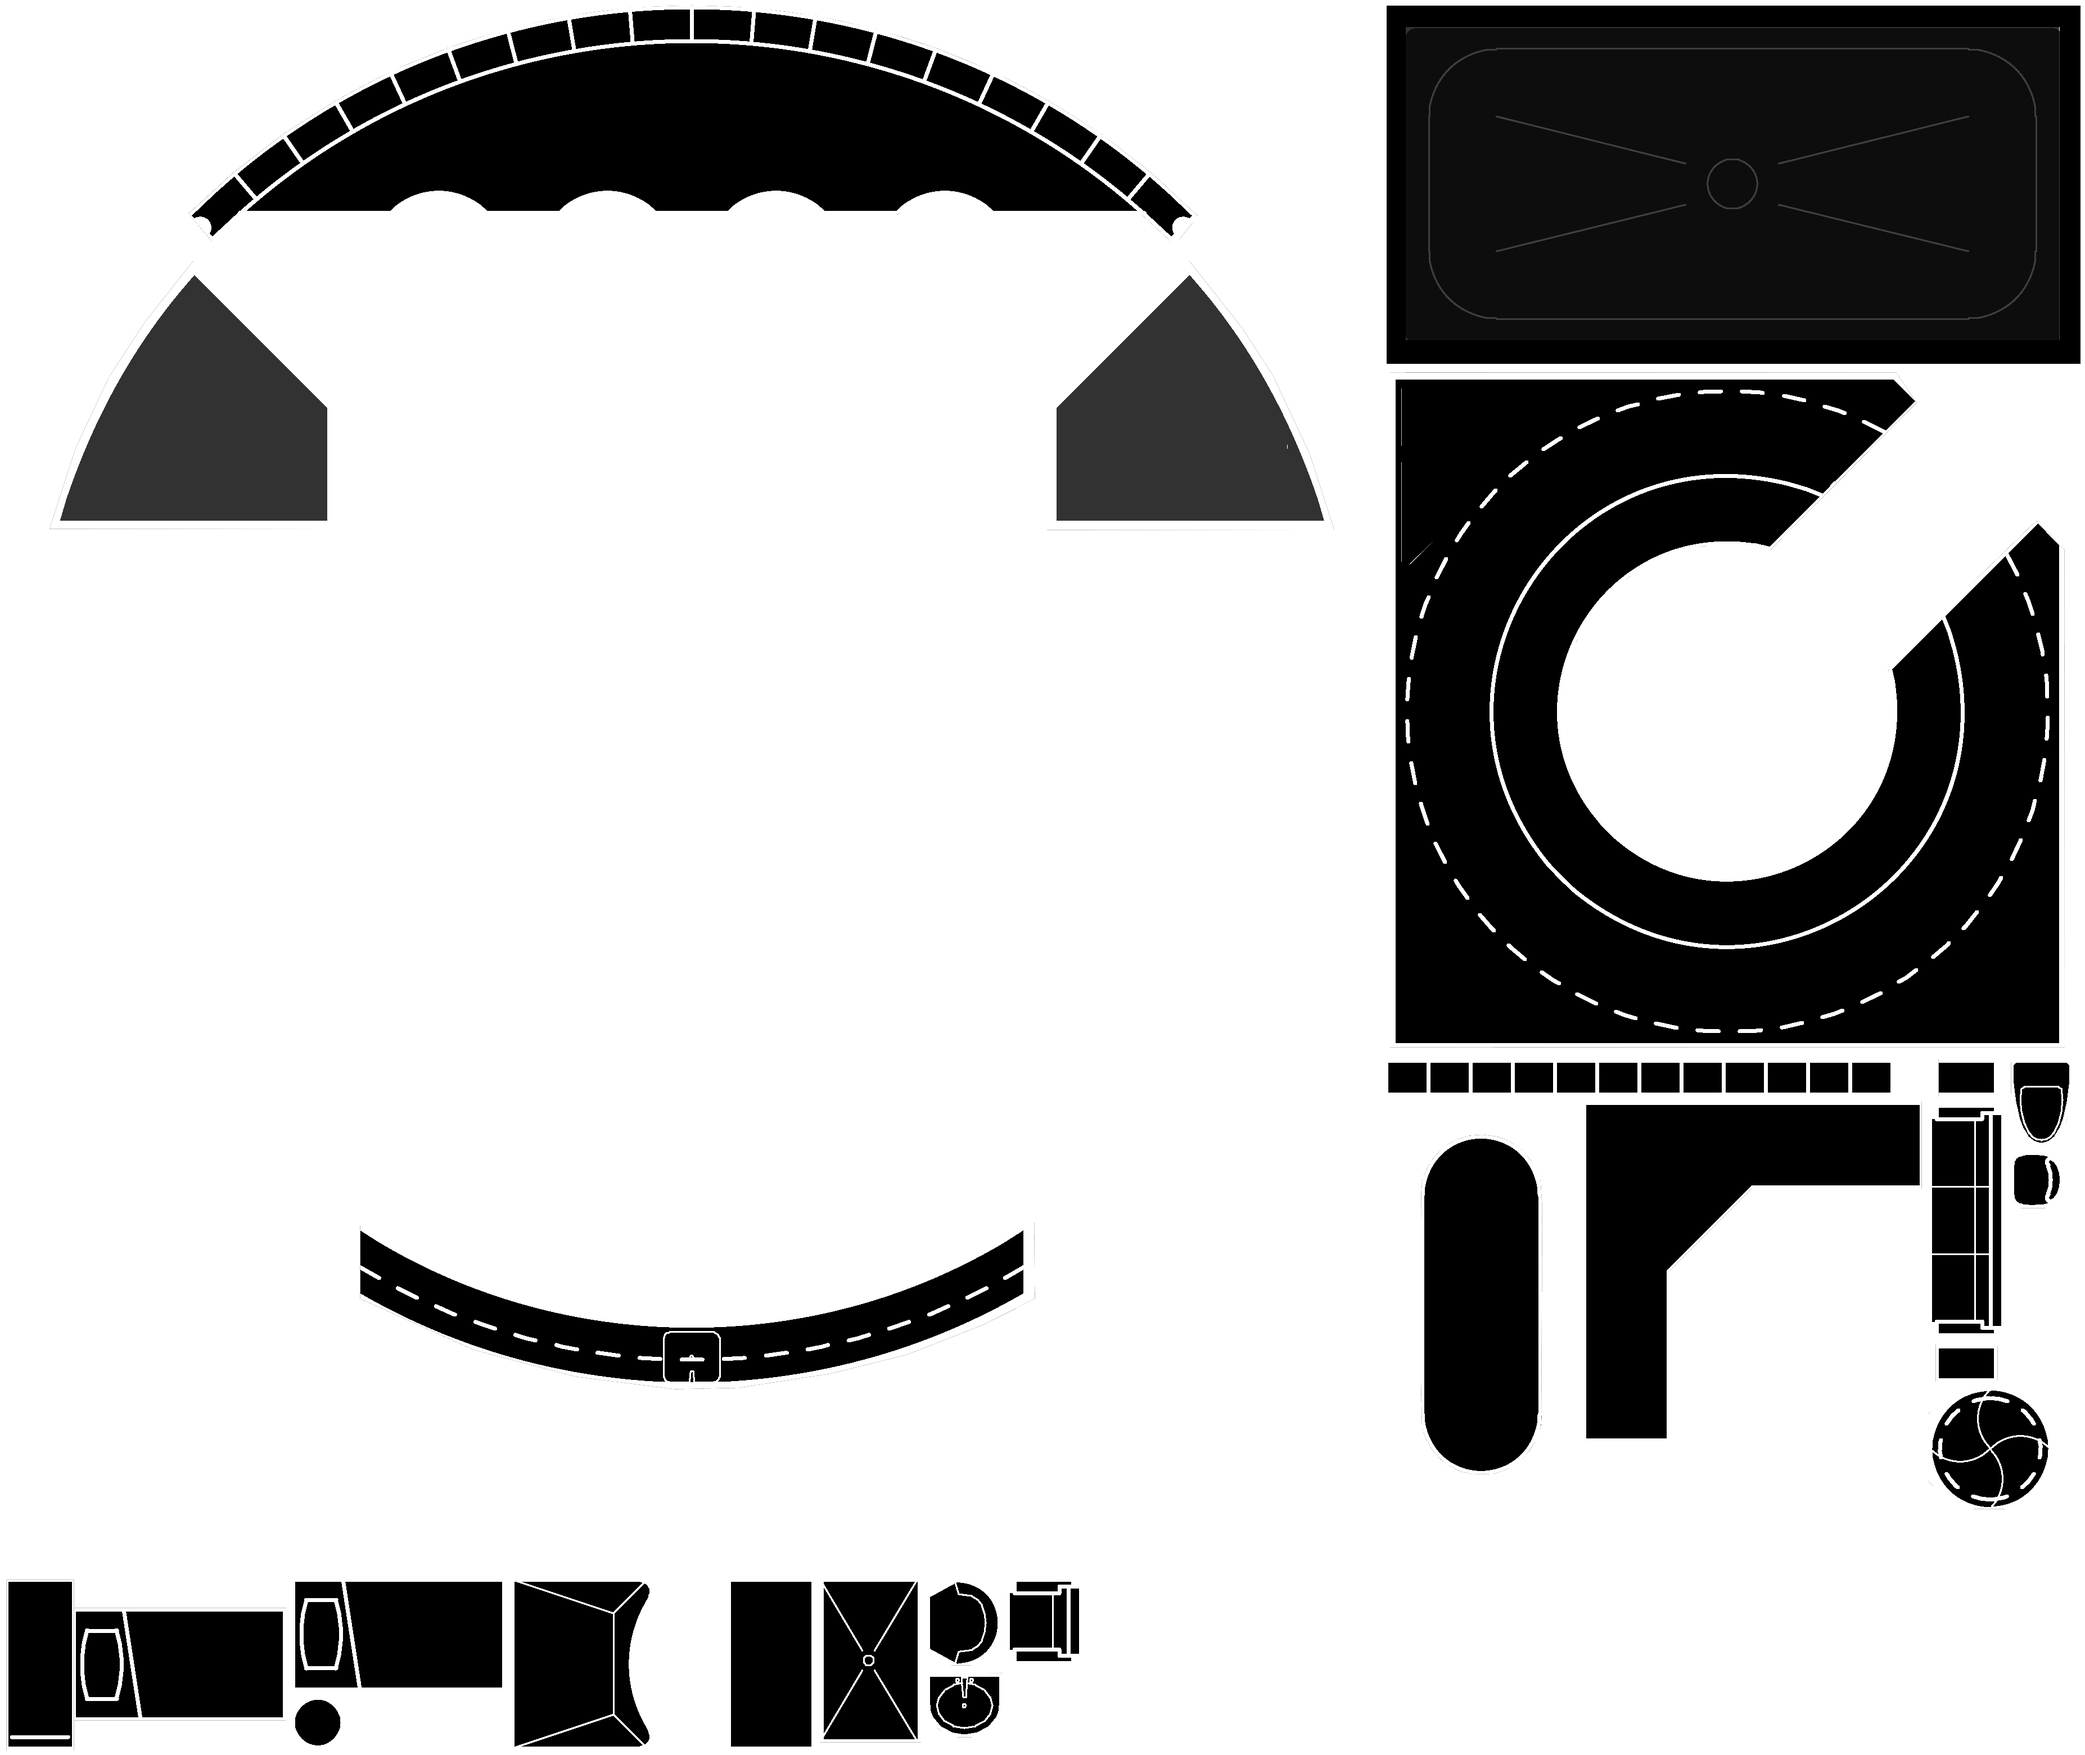
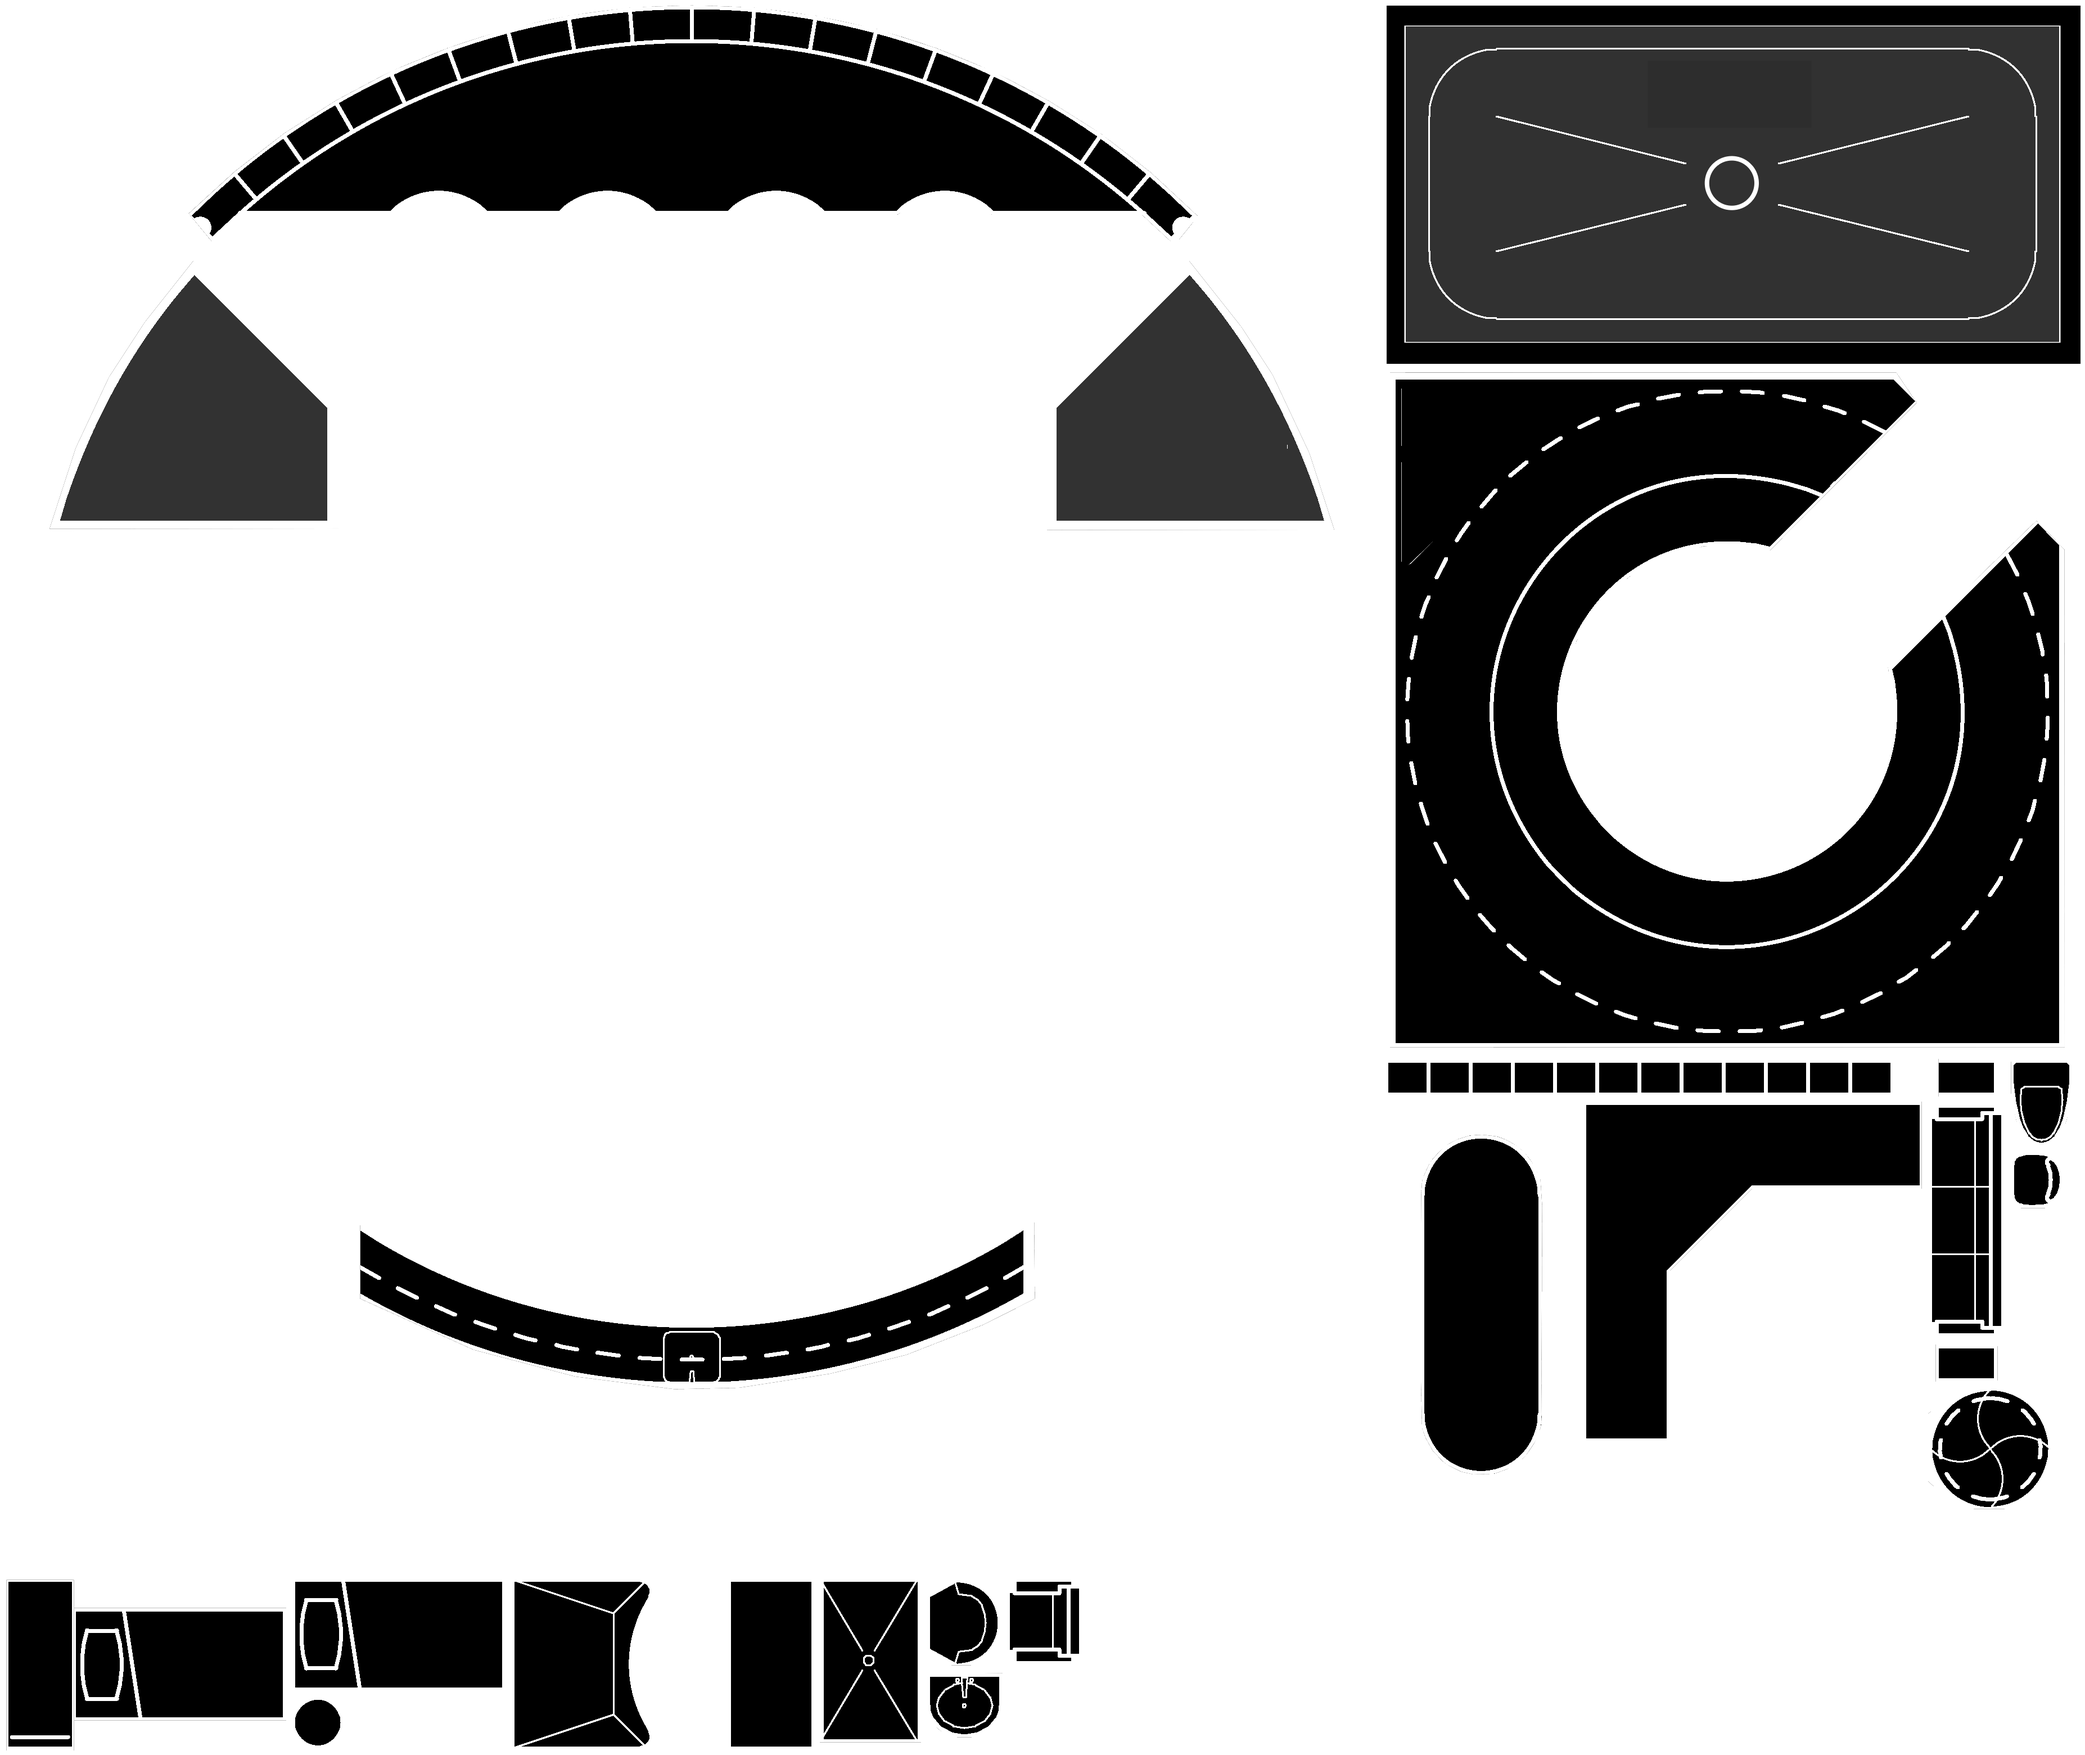
feat: improve replace/fuel--010 via boxy svg + export

Changed region(s): [[0.6513, 0.0, 0.9924, 0.2176]]

diff --git a/scripts/src/bins/gen-starship-sheets.ts b/scripts/src/bins/gen-starship-sheets.ts
@@ -127,16 +127,22 @@ for (const [sheetId, bin] of bins.entries()) {
   // ct.fillRect(0, 0, bin.width, bin.height);
 
   for (const rect of bin.rects) {
-    // can replace image
+    const symKey = rect.data.key as StarshipSymbolImageKey;
+    const sym = assets.symbol[symKey];
+    if (!sym) {
+      warn(`symbolKey not found: ${symKey}`);
+      continue;
+    }
+
+    // can replace image -- they'll be inverted like original images
+    const shouldReplaceImage = existsSync(path.resolve(starshipSymbolsReplaceDir, `${rect.data.key}.png`));
+
     const image = await loadImage(
-      existsSync(path.resolve(starshipSymbolsReplaceDir, `${rect.data.key}.png`))
+      shouldReplaceImage
         ? path.resolve(starshipSymbolsReplaceDir, `${rect.data.key}.png`)
         : path.resolve(starshipSymbolDir, `${rect.data.key}.png`),
     );
 
-    const symKey = rect.data.key as StarshipSymbolImageKey;
-    const sym = assets.symbol[symKey];
-    if (!sym) continue;
     const scale = worldToSguScale * (isHullSymbolImageKey(symKey) ? 1 : 5);
 
     // 🔔 clip to obstacles for much smaller file size
@@ -158,11 +164,10 @@ for (const [sheetId, bin] of bins.entries()) {
     }
 
     const masks = masksBySymbol[symKey];
-
-    // erase "mask remove" regions
     const offsetX = rect.x - sym.bounds.x * scale;
     const offsetY = rect.y - sym.bounds.y * scale;
 
+    // erase "mask remove" regions
     if (masks?.remove.length) {
       ct.save();
       ct.globalCompositeOperation = "destination-out";

diff --git a/TODO.md b/TODO.md
@@ -354,13 +354,13 @@ w decor.byKey.test-decor-point
   - ✅ darker restyled fuel--010
   - ✅ remove mask/fuel--010
 
-- remove internal SVG path editor
-- 🚧 BUG obstacle texture bleeding induced by obstacle polygon
-  - try fix via padding `gen-starship-sheets` 2 --> 8
+- 🚧 remove internal SVG path editor
 
 - larger pause UI
 - larger mobile UI
 
+- 🚧 BUG obstacle texture bleeding induced by obstacle polygon
+  - try fix via padding `gen-starship-sheets` 2 --> 8
 - debug update obstacles button should have spinner
 - obstacle resizing can be confusing
   - rotation is "determined" by the symbol's dimensions and the graphics appearance within it
